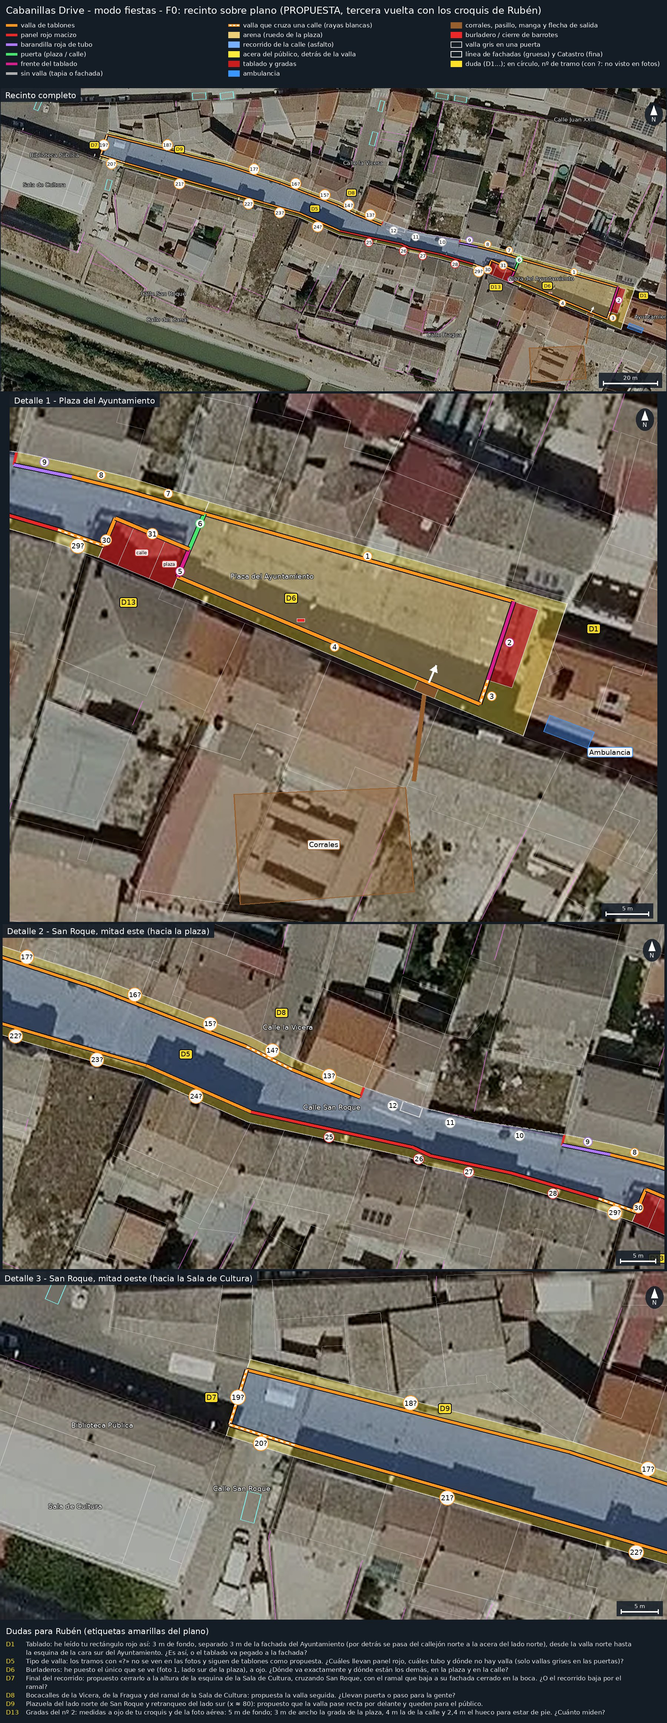
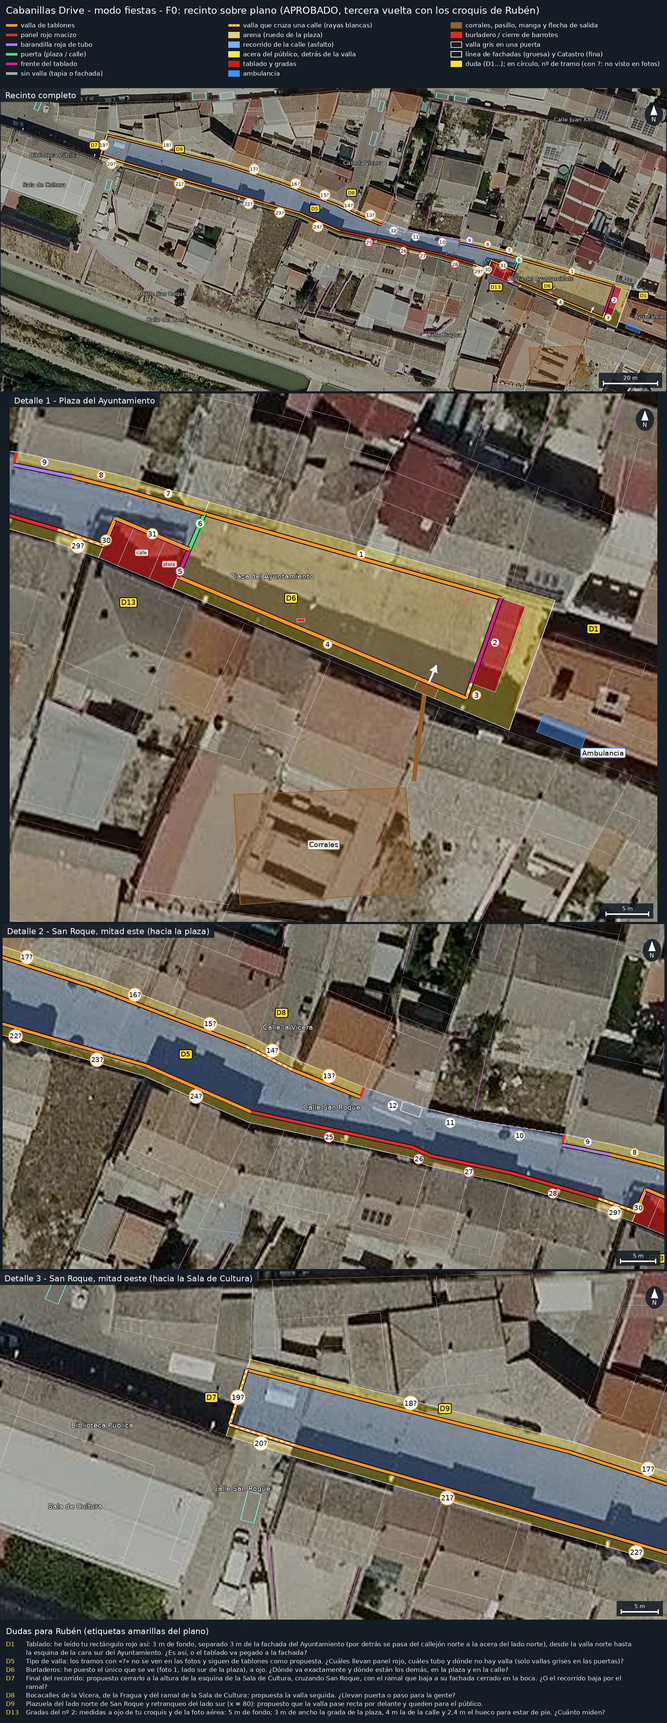
feat(fiestas-f1): el pueblo en fiestas, sin vacas
Tablado y cierre colgados de la fachada del Ayuntamiento hecho a mano (PR 152);
público sentado en las gradas y el tablado; gradas a la altura de la valla;
colisión en las tapias (tenían un hueco); menos público por calidad;
tools/prueba_fiestas.mjs (capturas, bot de recinto y comprobación al salir);
PROGRESO.md con la F1 y capturas en docs/fiestas.

Claude-Session: https://claude.ai/code/session_01Vo13RXe5ri1iQZBL1xjvsr

Changed region(s): [[0.6844, 0.343, 0.9022, 0.4366], [0.9022, 0.1559, 0.9644, 0.1871], [0.5289, 0.3118, 0.56, 0.343]]

diff --git a/prototipos/cabanillas-drive/src/fiestas/ambiente.js b/prototipos/cabanillas-drive/src/fiestas/ambiente.js
@@ -5,6 +5,7 @@ import * as THREE from 'three';
 import { clone as clonaConEsqueleto } from 'three/examples/jsm/utils/SkeletonUtils.js';
 import { CALIDAD } from '../config/calidad.js';
 import { FIESTAS } from '../config/fiestas.js';
+import { FILAS_AYUNTAMIENTO } from '../datos/casasAyuntamiento.js';
 import { FILAS_PLAZA } from '../datos/casasPlaza.js';
 import { Lote, azarCon } from './vallado.js';
 
@@ -259,15 +260,16 @@ function sitiosAceras(recinto) {
   return sitios;
 }
 
-// Sitios en los balcones de las casas de la plaza y de San Roque 50-54 (casasPlaza.js)
+// Sitios en los balcones de las casas de la plaza y de San Roque 50-54 (casasPlaza.js) y en el
+// balcón del Ayuntamiento que da a la plaza (casasAyuntamiento.js)
 function sitiosBalcones(terreno) {
   const sitios = [];
-  for (const fila of FILAS_PLAZA) {
+  for (const fila of [...FILAS_PLAZA, FILAS_AYUNTAMIENTO[0]]) {
     const { origen: O, eje: [ex, ez] } = fila;
     const enMundo = (u, w) => [O[0] + u * ex + w * ez, O[1] + u * ez - w * ex];
     for (const casa of fila.casas) {
       const [xa, za] = enMundo((casa.u[0] + casa.u[1]) / 2, -1.2);
-      const y0 = terreno.alturaEn(xa, za);
+      const y0 = fila.nivel ?? terreno.alturaEn(xa, za);
       for (const b of casa.balcones ?? []) {
         if (b.vuelo < 0.45) continue;
         const largo = b.u[1] - b.u[0];
@@ -286,6 +288,44 @@ function elige(sitios, cuantos, azar) {
   const lista = sitios.map((s) => ({ s, clave: Math.pow(azar(), 1 / (s.peso ?? 1)) }));
   lista.sort((a, b) => b.clave - a.clave);
   return lista.slice(0, cuantos).map((e) => e.s);
+}
+
+// Sienta a una persona doblando los huesos de su postura de quieto (esqueleto de MakeHuman de
+// tools/build_personas.py: thigh, calf, upperarm, lowerarm). Devuelve los huesos tocados con su
+// giro, para volver a ponerlos después de cada paso de la animación, y la altura de la cadera.
+const EJE_X = new THREE.Vector3(1, 0, 0);
+function sienta(objeto) {
+  const S = FIESTAS.publico.sentado;
+  objeto.updateMatrixWorld(true);
+  const qObjeto = objeto.getWorldQuaternion(new THREE.Quaternion());
+  // Giro sobre el eje transversal de la persona (su X), expresado en el mundo
+  const giro = (rad) => qObjeto.clone().multiply(new THREE.Quaternion().setFromAxisAngle(EJE_X, rad)).multiply(qObjeto.clone().invert());
+  const mundo = (h) => h.getWorldQuaternion(new THREE.Quaternion());
+  const fijados = [];
+  let cadera = null;
+  // Gira «hueso» en el mundo (a partir de la orientación «desde») sin tocar a su padre
+  const pon = (hueso, rad, desde = mundo(hueso)) => {
+    hueso.quaternion.copy(mundo(hueso.parent).invert().multiply(giro(rad).multiply(desde)));
+    hueso.updateMatrixWorld(true);
+    fijados.push([hueso, hueso.quaternion.clone()]);
+  };
+  for (const lado of ['l', 'r']) {
+    const muslo = objeto.getObjectByName(`thigh_${lado}`);
+    const pierna = objeto.getObjectByName(`calf_${lado}`);
+    const brazo = objeto.getObjectByName(`upperarm_${lado}`);
+    const antebrazo = objeto.getObjectByName(`lowerarm_${lado}`);
+    if (!muslo || !pierna) return null;
+    cadera ??= muslo.getWorldPosition(new THREE.Vector3()).y - objeto.position.y;
+    const piernaDePie = mundo(pierna);
+    pon(muslo, -S.musloRad);
+    pon(pierna, S.piernaRad, piernaDePie);          // la pierna, casi vertical como de pie
+    if (brazo && antebrazo) {
+      const antebrazoDePie = mundo(antebrazo);
+      pon(brazo, -S.brazoRad);
+      pon(antebrazo, -S.antebrazoRad, antebrazoDePie);
+    }
+  }
+  return { fijados, cadera };
 }
 
 function creaPublico(recinto, terreno, personas, sitiosGradas, sombras) {
@@ -312,8 +352,16 @@ function creaPublico(recinto, terreno, personas, sitiosGradas, sombras) {
     quieto.time = azar() * v.quieto.duration;
     mezclador.update(0);
     objeto.position.set(s.x, s.y ?? terreno.alturaEn(s.x, s.z), s.z);
-    objeto.rotation.y = s.rumbo + (azar() - 0.5) * 0.7;
+    objeto.rotation.y = s.rumbo + (azar() - 0.5) * (s.sentado ? 0.3 : 0.7);
     objeto.scale.setScalar(0.94 + azar() * 0.1);
+    let fijados = null;
+    if (s.sentado) {
+      const sentado = sienta(objeto);
+      if (sentado) {
+        fijados = sentado.fijados;
+        objeto.position.y = s.y + P.sentado.caderaSobreAsientoM - sentado.cadera;
+      }
+    }
     objeto.traverse((o) => {
       if (!o.isMesh) return;
       o.castShadow = sombras;
@@ -321,7 +369,7 @@ function creaPublico(recinto, terreno, personas, sitiosGradas, sombras) {
       o.frustumCulled = true;
     });
     grupo.add(objeto);
-    return { objeto, mezclador, turno: i % 4, pendiente: 0 };
+    return { objeto, mezclador, fijados, turno: i % 4, pendiente: 0 };
   });
   const visibleM = P.visibleHastaM[CALIDAD.nivel] ?? 75;
   let contador = 0;
@@ -336,7 +384,12 @@ function creaPublico(recinto, terreno, personas, sitiosGradas, sombras) {
         g.objeto.visible = d < visibleM;
         g.pendiente += dt;
         // La respiración de la postura de quieto, solo cerca y un fotograma de cada cuatro
-        if (d < 30 && (contador + g.turno) % 4 === 0) { g.mezclador.update(g.pendiente); g.pendiente = 0; }
+        if (d < 30 && (contador + g.turno) % 4 === 0) {
+          g.mezclador.update(g.pendiente);
+          g.pendiente = 0;
+          // Los sentados: la animación de quieto les pondría las piernas de pie
+          if (g.fijados) for (const [hueso, q] of g.fijados) hueso.quaternion.copy(q);
+        }
       }
     },
   };

diff --git a/prototipos/cabanillas-drive/src/datos/fiestas.js b/prototipos/cabanillas-drive/src/datos/fiestas.js
@@ -19,6 +19,9 @@
 //     foto 2: San Roque desde el lado sur, a la altura del nº 25, mirando a la plaza
 //     foto 3: San Roque desde el lado sur, frente al nº 29, mirando a la puerta y a la plaza
 //     foto 4: la plaza mirando al este: tablado, ambulancia y corral
+// - El Ayuntamiento hecho a mano por Rubén (PR 152, casasAyuntamiento.js): su fachada a la plaza
+//   queda 1,4 m más al oeste que la huella del Catastro y mide 9,3 m; el tablado y el cierre del
+//   callejón sur cuelgan de ella desde el 2026-11-17.
 // - Tres croquis de Rubén del 2026-11-16 (también descritos en docs/fiestas/README.md):
 //     croquis 1: sobre el plano de la F0, el tablado, el cierre del callejón sur, la ambulancia
 //                y la puerta de los corrales
@@ -69,14 +72,14 @@ const PUERTA_NORTE = [162.42, 323.71];
 const BORDE_PLAZA = [
   { p: PUERTA_NORTE, clase: 'fachada', lado: 'norte', tipo: T, sep: S, visto: 'fotos 1 y 4',
     ref: 'recta de la fila plaza_impares (nº 1 a 11)' },
-  { p: [204.4, 335.65], clase: 'tablado', lado: 'este', tipo: 'tablado', sep: FONDO_TABLADO + PASO_TRAS_TABLADO,
+  { p: [202.96, 335.25], clase: 'tablado', lado: 'este', tipo: 'tablado', sep: FONDO_TABLADO + PASO_TRAS_TABLADO,
     visto: 'fotos 1 y 4 y croquis 1',
-    ref: 'recta de la fachada oeste del Ayuntamiento (Catastro 259), de la fila de impares a su esquina suroeste; '
-      + 'el tablado va de 3 a 6 m de ella' },
-  { p: [200.8, 346.5], clase: 'bocacalle', lado: 'este', tipo: T, sep: FONDO_TABLADO + PASO_TRAS_TABLADO, visto: 'croquis 1',
+    ref: 'recta de la fachada oeste del Ayuntamiento hecho a mano (casasAyuntamiento.js, fila ayuntamiento_oeste: '
+      + 'de (201,91, 338,23) a (198,82, 347,03)), de la fila de impares a su esquina suroeste; el tablado va de 3 a 6 m de ella' },
+  { p: [198.82, 347.03], clase: 'bocacalle', lado: 'este', tipo: T, sep: FONDO_TABLADO + PASO_TRAS_TABLADO, visto: 'croquis 1',
     nombre: 'cierre hacia el callejón sur',
     ref: 'de la esquina suroeste del Ayuntamiento a la fila de pares, en línea con el frente del tablado' },
-  { p: [199.25, 351.2], clase: 'fachada', lado: 'sur', tipo: T, sep: S, visto: 'foto 1 y croquis 1',
+  { p: [197.6, 350.5], clase: 'fachada', lado: 'sur', tipo: T, sep: S, visto: 'foto 1 y croquis 1',
     ref: 'recta de la fila plaza_pares (nº 10 a 4 y el principio del nº 2)' },
   { p: G_ESTE_0, clase: 'gradas', lado: 'oeste', tipo: 'tablado', sep: 0, visto: 'foto 1 y croquis 3',
     nombre: 'frente de la grada del lado de la plaza', ref: 'cara este de las gradas del nº 2: es la parte fija del cierre' },
@@ -305,7 +308,8 @@ export const RECINTO_FIESTAS = {
     patio: [[165.3, 358.0], [185.5, 357.2], [186.5, 369.5], [166.0, 371.0]], aprox: true },
 
   // Ambulancia (obligatoria en el festejo): dentro del callejón sur del Ayuntamiento (foto 4 y croquis 1)
-  ambulancia: { en: [202.0, 349.7], direccion: [0.935, 0.354], largo: 5.6, ancho: 2.1 },
+  // Centrada en el callejón, que mide 3,7 m entre el Ayuntamiento y las casas del lado sur
+  ambulancia: { en: [201.2, 349.75], direccion: [0.933, 0.359], largo: 5.6, ancho: 2.1 },
 
   // Burladeros: panel rojo estrecho separado de la valla. Solo el que se ve en la foto 1, a ojo (D6)
   burladeros: [{ en: enPares(35.0, S + 0.9), lado: 'sur', zona: 'plaza', aprox: true, visto: 'foto 1' }],

diff --git a/prototipos/cabanillas-drive/src/config/fiestas.js b/prototipos/cabanillas-drive/src/config/fiestas.js
@@ -29,8 +29,9 @@ export const FIESTAS = {
     burladero: { anchoM: 1.3, altoM: 1.55, gruesoM: 0.06 },
   },
 
-  // Tablado y gradas: filas de asientos que suben desde el frente
-  gradas: { filaFondoM: 0.75, contrahuellaM: 0.4, primeraM: 0.9, barandillaM: 1.0 },
+  // Tablado y gradas: filas de asientos que suben desde el frente. La primera fila queda casi a
+  // la altura de la valla, como en la foto 4 (los pies de los sentados asoman por encima)
+  gradas: { filaFondoM: 0.75, contrahuellaM: 0.4, primeraM: 1.4, barandillaM: 1.0 },
 
   arena: { gruesoM: 0.16, color: 0xcdb083, colorOscuro: 0xb39468 },   // tapa los bordillos (12 cm)
 
@@ -47,11 +48,17 @@ export const FIESTAS = {
 
   // Público (personas de MakeHuman en postura de quieto). Cantidad por calidad.
   publico: {
-    cantidad: { alto: 80, medio: 50, bajo: 22 },
+    // Cada persona son ~11 000 triángulos y una malla con esqueleto: en «bajo», pocas. Un
+    // público lejano simplificado queda para la F8.
+    cantidad: { alto: 70, medio: 40, bajo: 16 },
     // Reparto: fracción en el tablado y las gradas, en los balcones y el resto en las aceras
     enGradas: 0.3, enBalcones: 0.12,
-    visibleHastaM: { alto: 95, medio: 75, bajo: 55 },
+    visibleHastaM: { alto: 95, medio: 70, bajo: 45 },
     separacionM: 0.62,
     semilla: 20261116,
+    // Sentados (gradas y tablado): no hay animación de sentado todavía (F6), así que se doblan
+    // los huesos de la postura de quieto: muslos hacia delante, piernas colgando y antebrazos
+    // sobre los muslos
+    sentado: { musloRad: 1.45, piernaRad: 0.12, antebrazoRad: 1.05, brazoRad: 0.18, caderaSobreAsientoM: 0.1 },
   },
 };

diff --git a/prototipos/cabanillas-drive/src/fiestas/vallado.js b/prototipos/cabanillas-drive/src/fiestas/vallado.js
@@ -159,7 +159,10 @@ export function creaVallado(recinto, { terreno, fisica, sombras = true }) {
   // --- Tramos de valla
   let puerta = null;
   for (const t of recinto.tramos) {
-    if (t.tipo === 'ninguna' || t.largo < 0.1) continue;
+    if (t.largo < 0.1) continue;
+    // Sin valla: el límite es la tapia o la fachada. Aun así lleva colisión, porque las tapias
+    // de muros.json tienen algún hueco por el que se saldría del recinto
+    if (t.tipo === 'ninguna') { colision(t.a, t.b); continue; }
     if (t.tipo === 'puerta') { puerta = t; continue; }
     if (t.tipo === 'panel') panel(lote, t.a, t.b);
     else if (t.tipo === 'tubo') tubo(lote, t.a, t.b);
@@ -194,8 +197,10 @@ export function creaVallado(recinto, { terreno, fisica, sombras = true }) {
       const n = Math.floor(ancho / FIESTAS.publico.separacionM);
       for (let k = 0; k < n; k++) {
         const s = punto(a, b, (k + 0.5) / n);
-        const dm = (d0 + d1) / 2;
-        sitiosGradas.push({ x: s[0] + fondo.dx * dm, y: y0 + h, z: s[1] + fondo.dz * dm, rumbo });
+        // Sentados cerca del borde de su fila, con las piernas colgando hacia la de delante (en la
+        // primera fila, algo más atrás: delante está la valla)
+        const dm = d0 + (i === 0 ? 0.52 : 0.3);
+        sitiosGradas.push({ x: s[0] + fondo.dx * dm, y: y0 + h, z: s[1] + fondo.dz * dm, rumbo, sentado: true });
       }
     }
     if (barandilla) {

diff --git a/prototipos/cabanillas-drive/src/juego/juego.js b/prototipos/cabanillas-drive/src/juego/juego.js
@@ -209,7 +209,7 @@ export async function iniciaJuego({ renderer, escena, camara, ui, ciclo }) {
   function irA(nombre) {
     const lugar = carteles.lugares.find((l) => l.nombre === nombre);
     if (!lugar) return;
-    if (enFiestas()) return;
+    if (enFiestas()) { avisa('Estás en las fiestas: en la pausa, «Volver al pueblo»', 4); return; }
     if (aPie) subirseYa();
     const n = nodoMasCercano(nodos, lugar.x, lugar.z, { excluirServicio: true });
     const haciaX = lugar.x - n.x;

diff --git a/prototipos/cabanillas-drive/tools/20_recinto_fiestas.py b/prototipos/cabanillas-drive/tools/20_recinto_fiestas.py
@@ -116,6 +116,16 @@ def carga_recinto() -> dict:
     return json.loads(r.stdout)
 
 
+def carga_filas_casas() -> list[LineString]:
+    """Línea de fachada de cada fila de casas hecha a mano (src/datos/casas.js): es la que ve el juego."""
+    codigo = ("import('./src/datos/casas.js').then((m) => console.log(JSON.stringify(m.FILAS_CASAS.map((f) => "
+              "({ o: f.origen, e: f.eje, u: [Math.min(...f.casas.map((c) => c.u[0])), Math.max(...f.casas.map((c) => c.u[1]))] })))))")
+    r = subprocess.run(["node", "--input-type=module", "-e", codigo], cwd=RAIZ, capture_output=True, text=True, encoding="utf-8")
+    if r.returncode != 0:
+        return []
+    return [LineString([(f["o"][0] + f["e"][0] * u, f["o"][1] + f["e"][1] * u) for u in f["u"]]) for f in json.loads(r.stdout)]
+
+
 def lee_json(ruta: Path):
     return json.loads(ruta.read_text(encoding="utf-8"))
 
@@ -592,7 +602,7 @@ def main() -> int:
     capas = {
         "edificios": edificios,
         "muros": muros,
-        "obstaculos": unary_union(edificios + [m.buffer(0.1) for m in muros]),
+        "obstaculos": unary_union(edificios + [m.buffer(0.1) for m in muros] + [f.buffer(0.1) for f in carga_filas_casas()]),
         # Público: lo que queda entre la línea de fachadas y las vallas (menos el tablado)
         "publico": borde_total.difference(unary_union([Polygon(recinto["plaza"]["ruedo"]), Polygon(recinto["calle"]["recorrido"]),
                                                         Polygon(recinto["tablado"]["esquinas"]),

diff --git a/prototipos/cabanillas-drive/PROGRESO.md b/prototipos/cabanillas-drive/PROGRESO.md
@@ -7,7 +7,7 @@
 - **R2 hecho (2026-10-05), pendiente del OK de Rubén:** `tools/09_tejados.py` ajusta 1–4 faldones por RANSAC al MDS (tejado = mínimo de los planos, cumbreras exactas) o, si no cuadra, malla de rejilla del MDS; aleros de 0,3 m con canto; muros con la altura real del borde del tejado. 1 313 tejados de planos, 496 de rejilla, 3 planos por defecto. Error medio tejado − MDS 0,107 m (mediana 0,061). `tejados.json` + `tejados.bin` (2,6 MB, 1,1 MB comprimido). R2 aprobado.
 - **R3 hecho (2026-10-05), pendiente del OK de Rubén:** `tools/10_sol.py` estima el sol del vuelo de la ortofoto correlacionando sombras del nDSM con lo oscuro de la foto (acimut 201°, elevación 65°). `src/escena/render.js`: sombras del sol en una caja que sigue a la cámara, oclusión ambiental N8AO + SMAA + OutputPass; reflejos del propio cielo (sin RoomEnvironment). `suelo.js`: el terreno recibe sombras 3D solo donde la foto está al sol, y detalle de cerca (`tools/11_suelo.py`: calzada/acera/tierra + texturas de asfalto, baldosa y tierra dibujadas). Calidad alto/medio/bajo en `src/config/calidad.js` (`?calidad=`; móvil → bajo). Render completo ≈ 7 ms a 1280×720. Rubén autorizó las descargas: cielo HDRI de Poly Haven (`tools/12_cielo.py`, girado para que su sol coincida con el de la ortofoto) y texturas de ambientCG para el suelo (`tools/11_suelo.py` las usa si están). 09_tejados: sin copas de árbol (píxeles verdes) y techo plano en edificios estrechos o con rejilla mala (error medio 0,090 m). Siguiente: R4 (splats, necesita capturas).
 
-**Fiestas (2026-11-15):** modo fiestas de `PLAN_FIESTAS.md`, fase **F0 (recinto sobre plano), tercera vuelta con fotos y croquis de Rubén; sigue como propuesta, pendiente de su aprobación**. No se modela nada hasta que la apruebe. Ver el apartado «Fiestas» más abajo.
+**Fiestas (2026-11-15):** modo fiestas de `PLAN_FIESTAS.md`, **F0 aprobada y F1 (el pueblo en fiestas, sin vacas) hecha el 2026-11-17, pendiente de que Rubén la pruebe**. No se modela nada hasta que la apruebe. Ver el apartado «Fiestas» más abajo.
 
 **Orden del pipeline:** `00_inspect_raw` → `01_origin_terrain` → `02_ortho` → `03_buildings` → `04_osm` → `05_superposicion` → `06_aspecto` → Blender `build_scene.py` → `npm run escena`.
 
@@ -199,13 +199,36 @@
 
 ## Fiestas (PLAN_FIESTAS.md)
 
-**Fase actual: F0 — recinto sobre plano. Tercera vuelta (2026-11-16) con tres croquis y más respuestas de Rubén; sigue siendo propuesta y está parada hasta que la apruebe.**
+**Fase actual: F1 — el pueblo en fiestas (sin vacas). Hecha el 2026-11-17; parada hasta que Rubén la pruebe y dé el visto bueno.** La F0 quedó aprobada por Rubén el 2026-11-17.
+
+### Hecho en F1
+- **Entrar y salir** (`src/fiestas/modoFiestas.js`, enganchado en `juego.js`): con `?fiestas=plaza|calle|encierro` o desde la pausa (desplegable «Fiestas»; dentro ofrece «Volver al pueblo»). Fundido a negro; se retira el tráfico, se ocultan los peatones, se pone la hora de «Día» sin cambiar la que el jugador tenía guardada, y el jugador queda a pie dentro del recinto (plaza: en el ruedo mirando al tablado; calle: a 45 m de la puerta; encierro: en el ruedo mirando a la puerta). Al salir se libera todo y vuelve al coche. El código de fiestas va en un archivo aparte (30 kB) que solo se descarga al entrar.
+- **Vallado** (`src/fiestas/vallado.js`, medidas en `src/config/fiestas.js`): tablones, panel rojo, barandilla de tubo, cierres de barrotes, puerta (cerrada en «plaza», abierta en los otros dos modos, recogida contra la valla norte), tablado y gradas del nº 2 con filas, burladero, valla gris y manga del corral con su portón. Una malla por material y colisión en cada tramo (3 m de alto: no se salta). Los tramos sin valla (tapias) también llevan colisión: la tapia de `muros.json` tiene un hueco de 0,9 m por el que se salía.
+- **Ambiente** (`src/fiestas/ambiente.js`): arena de 16 cm sobre el ruedo (tapa los bordillos), con su colisión; 20 ristras de banderines de fachada a fachada (515 banderines, se mueven con el viento); ambulancia en el callejón sur; público en las aceras de detrás de las vallas, en el tablado, en las gradas y en los balcones (también el del Ayuntamiento). **Los de las gradas y el tablado, sentados** (petición de Rubén): como aún no hay animación de sentado, se doblan los huesos de la postura de quieto.
+- **Farolas**: las 4 que caen en el ruedo o en el recorrido se quitan al entrar, con su choque, y se reponen al salir (`farolas.oculta` / `repone`).
+- **Montón delante del nº 5** (petición de Rubén): era un bulto de 0,8 m del MDT. Se aplana al cargar el mundo, en las alturas y en la malla (`src/datos/correccionesTerreno.js`); vale también para el modo de conducción. Es el único bulto de más de 20 cm en todo el recinto.
+- **Ayuntamiento a mano** (PR 152 de Rubén, fusionado): el tablado y el cierre del callejón sur cuelgan ahora de su fachada, que queda 1,4 m al oeste de la huella del Catastro. El ruedo pasa a 373 m² y 36 m de largo.
+- **Prueba automática** (`tools/prueba_fiestas.mjs`, con el servidor de desarrollo y Playwright): capturas, un «bot» que corre al azar a paso de física y comprobación al salir.
+  | Modo | Calidad | Recorrido del bot | Pasos fuera del recinto | Al salir |
+  |---|---|---|---|---|
+  | plaza (puerta cerrada) | bajo y medio | 0,6 km | 0 de 9 000 | igual que antes |
+  | calle (puerta abierta) | bajo | 2,4 km | 0 de 36 000 | igual que antes |
+  | encierro, móvil emulado 844×390 táctil | bajo | 2,4 km | 0 de 36 000 | igual que antes; mandos táctiles visibles |
+  «Igual que antes»: mismas colisiones (12 936), hora, tráfico y peatones visibles, farolas repuestas y nada del festejo en la escena. Sin errores de consola. La escena queda con 1 o 2 mallas más que antes de entrar (cambia de una prueba a otra); no llevan nombre de fiestas y no se ha mirado cuáles son (lo más probable, tejados que el juego genera al acercarse a la plaza). En modo plaza el bot no pasa de la puerta.
+- **Coste** (contado, no medido en FPS: aquí no hay tarjeta gráfica): el festejo añade 27 mallas y 0,20 M de triángulos en «bajo» (16 personas) y 51 mallas y 0,49 M en «medio» (40 personas). Casi todo es el público: cada persona son ~11 000 triángulos y una malla con esqueleto. En «alto», 70 personas.
+
+### Pendiente de F1 / para más adelante
+- Rubén: probarlo en su PC y en el móvil (`npm run dev` y `?fiestas=plaza&debug=1`) y decir cómo va de FPS. No está publicado en `juegos/` (eso es `npm run publica`, mejor desde su PC).
+- El público de calidad «alto» (70 personas, ~0,8 M de triángulos) no se ha podido probar aquí. Si pesa, bajar `FIESTAS.publico.cantidad`; el público lejano simplificado es de la F8.
+- La tapia del lado norte de San Roque se ve con un hueco de 0,9 m (viene de `muros.json`); no se puede pasar, pero se ve.
+- Las vallas grises de las puertas no dejan entrar (los refugios son de la F2).
+- La ortofoto pilló montadas las gradas del nº 2: en calidad «bajo» se ve su mancha en el suelo junto a las gradas.
 
 ### Hecho en F0
 - `PLAN_FIESTAS.md` añadido al proyecto (venía del chat).
 - `src/datos/fiestas.js`: el recinto como dato. Línea de fachadas de la plaza y de San Roque (de las filas de `casasPlaza.js`, las huellas del Catastro y las tapias de `muros.json`; cada lado dice de dónde sale), y de ella cuelgan las vallas, paralelas a `SEPARACION_VALLA` (1,5 m). 31 tramos numerados (plaza 1–5, puerta 6, calle 7–31) con su tipo y dónde se ven (`visto`), cierres de barrotes, ruedo de arena, recorrido de la calle, puerta, tablado, gradas del nº 2, corral con su pasillo y su patio, ambulancia, burladero, valla gris, regla del encierro, zonas de público y dudas. `estado: 'propuesta'`.
 - `tools/20_recinto_fiestas.py` → `data/processed/previews/recinto_fiestas.png` (y copia en `docs/fiestas/recinto_fiestas.jpg` con `--jpg`): vista general, tres detalles y el texto de las dudas. Lee `fiestas.js` con node (única fuente). Comprueba que ninguna valla atraviesa edificios, que la línea de fachadas pasa por fachadas reales, el ancho libre y el desnivel, y lista lo que hay hoy en el recinto. Con `--assets` usa otra carpeta de datos (la del juego publicado) y, si no están las teselas de la ortofoto, las saca de `cabanillas.glb`.
-- Medidas: plaza 604 m² entre fachadas, ruedo 393 m² (38 m de largo; 8,0 m de ancho en la puerta y 12,6 m junto al tablado). Calle: 155 m de eje desde la puerta; el paso más estrecho son los 3,5 m entre las gradas del nº 2 y la valla norte. Puerta de 4,5 m. Casi llano: 0,7 % en la plaza y 0,9 % en la calle.
+- Medidas (con el Ayuntamiento a mano): plaza 577 m² entre fachadas, ruedo 373 m² (36 m de largo; 8,0 m de ancho en la puerta y 12,4 m junto al tablado). Calle: 155 m de eje desde la puerta; el paso más estrecho son los 3,5 m entre las gradas del nº 2 y la valla norte. Puerta de 4,5 m. Casi llano: 0,7 % en la plaza y 0,9 % en la calle.
 - En el recinto hoy: 0 coches aparcados, 9 farolas (1 del LiDAR y 8 estimadas), 3 árboles del LiDAR en San Roque (el de x ≈ 131 se ve en la foto 2) y ningún banco ni señal de OSM. La F1 decide qué se quita.
 
 ### Lo que fijan las respuestas, las fotos y los croquis de Rubén (descritos en `docs/fiestas/README.md`)
@@ -224,9 +247,8 @@
 - D6 sitio del burladero y los demás. D5 tipo de valla de los tramos 13–24 y 29. D7 final del recorrido. D8 bocacalles de la Vicera, de la Fragua y del ramal. D9 plazuela y retranqueo.
 - Resueltas: D2 (ambulancia, no camión), D3 (callejones cerrados), D4 (1,5 m), D10 (puerta), D11 (encierro) y D12 (corral en el nº 8).
 
-### Pendiente
-- Rubén: revisar la imagen y aprobar la F0, o corregir. Las dudas que quedan tienen todas un valor puesto y se pueden cambiar después (son un número o una palabra en `fiestas.js`).
-- Claude: con su visto bueno, `estado: 'aprobado'` y F1.
+### Dudas de la F0 que siguen abiertas
+- Tienen todas un valor puesto y se pueden cambiar después (son un número o una palabra en `fiestas.js`): D1, D5, D6, D7, D8, D9 y D13.
 
 ### Decisiones
 - El recinto vive solo en `src/datos/fiestas.js`; la herramienta de Python lo evalúa con node para no duplicarlo.

diff --git a/prototipos/cabanillas-drive/PLAN_FIESTAS.md b/prototipos/cabanillas-drive/PLAN_FIESTAS.md
@@ -2,7 +2,7 @@
 
 Plan por fases para añadir a Cabanillas Drive un **modo fiestas**: el mismo pueblo, transformado como en las fiestas (vallas, arena, banderines, público, sin tráfico), con tres minijuegos de vacas. Complementa a `PLAN.md` y `PLAN_REALISMO.md`. Las reglas de `CLAUDE.md` siguen siendo obligatorias (una fase cada vez, parada al final de cada fase, no inventar datos geográficos, español, escritorio y móvil siempre).
 
-Fecha: 2026-11-15. Estado: **F0 en tercera vuelta (2026-11-16), pendiente de la aprobación de Rubén**. Detalle en `PROGRESO.md`, apartado «Fiestas».
+Fecha: 2026-11-15. Estado: **F0 aprobada y F1 hecha (2026-11-17), pendiente de que Rubén la pruebe**. Detalle en `PROGRESO.md`, apartado «Fiestas».
 
 > **Correcciones del 2026-11-15 y 16 (respuestas, fotos y croquis de Rubén), que mandan sobre el texto de abajo:**
 > - No hay camión de ganado. Las vacas salen de los **corrales**, el patio de detrás del nº 8 de la plaza, por el portón del nº 8 y una manga de tablas. La **ambulancia** (obligatoria) va en el callejón sur del Ayuntamiento.

diff --git a/prototipos/cabanillas-drive/docs/fiestas/README.md b/prototipos/cabanillas-drive/docs/fiestas/README.md
@@ -6,6 +6,9 @@ Material de referencia de `PLAN_FIESTAS.md`.
   `data/processed/previews/recinto_fiestas.png`. La genera `tools/20_recinto_fiestas.py --jpg docs/fiestas/recinto_fiestas.jpg`
   a partir de `src/datos/fiestas.js`.
 
+- `f1_*.jpg`: capturas de la F1 sacadas por `tools/prueba_fiestas.mjs` (calidad media las de la plaza y baja la de la calle, sin tarjeta gráfica): la plaza
+  hacia la puerta, el tablado con el Ayuntamiento, las gradas del nº 2, el nº 5 sin farola ni montón y la puerta desde la calle.
+
 En la foto aérea los tejados salen desplazados uno o dos metros respecto al suelo (no es una ortofoto verdadera).
 Lo que cuenta para colocar las vallas es la línea blanca de fachadas, que es la del Catastro y la que usa el juego.
 
